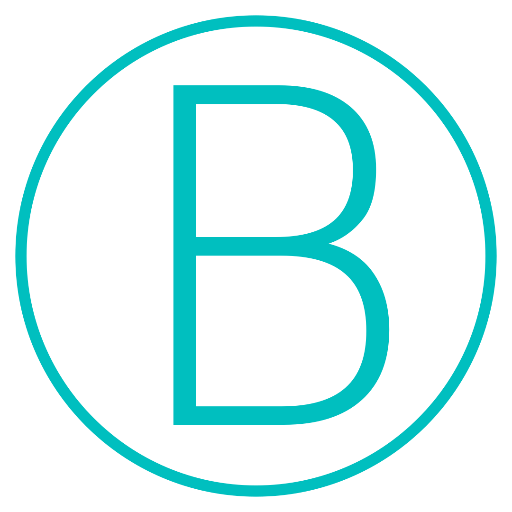
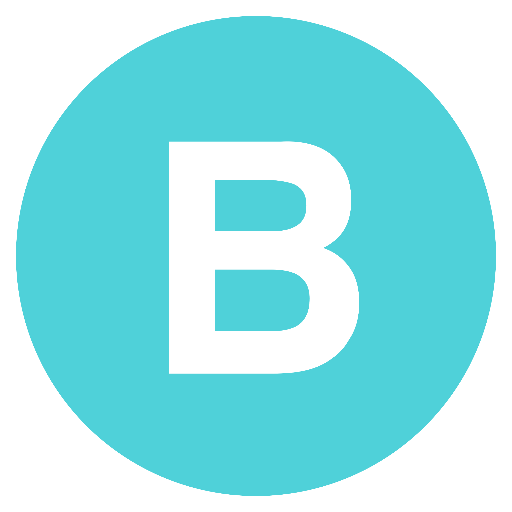
big chnage

diff --git a/src/components/logo/Logo.js b/src/components/logo/Logo.js
@@ -15,81 +15,9 @@ export const Logo = () => {
     const classes = useStyles();
 
     return (
-      <svg xmlns="http://www.w3.org/2000/svg" version="1.1" width="1080" height="1080" viewBox="0 0 1080 1080" xmlSpace="preserve">
-  <defs></defs>
-  <rect x="0" y="0" width="100%" height="100%" fill="transparent" />
-  <g transform="matrix(1 0 0 1 540 540)" id="685b5e02-9374-4bbb-9afb-c21c7d78927f"></g>
-  <g transform="matrix(1 0 0 1 540 540)" id="60aa28cd-1699-4a95-b428-5446e7fcde33">
-    <rect
-      style={{
-        stroke: 'none',
-        strokeWidth: 1,
-        strokeDasharray: 'none',
-        strokeLinecap: 'butt',
-        strokeDashoffset: 0,
-        strokeLinejoin: 'miter',
-        strokeMiterlimit: 4,
-        fill: 'rgb(255,255,255)',
-        fillRule: 'nonzero',
-        opacity: 1,
-        visibility: 'hidden',
-      }}
-      vectorEffect="non-scaling-stroke"
-      x="-540"
-      y="-540"
-      rx="0"
-      ry="0"
-      width="1080"
-      height="1080"
-    />
-  </g>
-  <g transform="matrix(0 0 0 0 0 0)">
-    <g style=""></g>
-  </g>
-  <g transform="matrix(11.84 0 0 11.84 540 540)">
-    <path
-      style={{
-        stroke: 'rgb(0,191,191)',
-        strokeWidth: 0,
-        strokeDasharray: 'none',
-        strokeLinecap: 'butt',
-        strokeDashoffset: 0,
-        strokeLinejoin: 'miter',
-        strokeMiterlimit: 4,
-        fill: 'rgb(0,191,191)',
-        fillRule: 'nonzero',
-        opacity: 1,
-      }}
-      vectorEffect="non-scaling-stroke"
-      transform="translate(-50, -50)"
-      d="M 50 92.875 C 26.358 92.875 7.125 73.642 7.125 50 C 7.125 26.358000000000004 26.358 7.125 50 7.125 C 73.642 7.125 92.875 26.358 92.875 50 C 92.875 73.642 73.642 92.875 50 92.875 z M 50 9.125 C 27.461 9.125 9.125 27.461 9.125 50 C 9.125 72.538 27.461 90.875 50 90.875 C 72.538 90.875 90.875 72.538 90.875 50 C 90.875 27.461 72.538 9.125 50 9.125 z"
-      strokeLinecap="round"
-    />
-  </g>
-  <g transform="matrix(8.39 0 0 8.39 571.89 587.19)" style="" id="047e58c2-a7c2-498c-a005-4fc0555c84c7">
-    <text
-      xmlSpace="preserve"
-      fontFamily="Raleway"
-      fontSize="117"
-      fontStyle="normal"
-      fontWeight="300"
-      style={{
-        stroke: 'none',
-        strokeWidth: 1,
-        strokeDasharray: 'none',
-        strokeLinecap: 'butt',
-        strokeDashoffset: 0,
-        strokeLinejoin: 'miter',
-        strokeMiterlimit: 4,
-        fill: 'rgb(0,191,191)',
-        fillRule: 'nonzero',
-        opacity: 1,
-        whiteSpace: 'pre',
-      }}
-    >
-      <tspan x="-39.02" y="36.75">B</tspan>
-    </text>
-  </g>
+      <svg xmlns="http://www.w3.org/2000/svg" viewBox="0 0 64 64" class="jss3">
+  <circle cx="32" cy="32" r="30" fill="#4fd1d9"></circle>
+  <path d="M42.6 20.6c.9 1.2 1.3 2.7 1.3 4.4c0 1.8-.4 3.2-1.3 4.3c-.5.6-1.2 1.2-2.2 1.7c1.5.5 2.6 1.4 3.4 2.6c.8 1.2 1.1 2.6 1.1 4.3c0 1.7-.4 3.3-1.3 4.6c-.5.9-1.2 1.7-2.1 2.3c-.9.7-2 1.2-3.3 1.5s-2.6.4-4.1.4h-13v-29h14c3.6-.2 6.1.9 7.5 2.9m-15.7 1.9v6.4H34c1.3 0 2.3-.2 3.1-.7s1.2-1.3 1.2-2.5c0-1.4-.5-2.2-1.6-2.7c-.9-.3-2-.5-3.4-.5h-6.4m0 11.2v7.7h7c1.3 0 2.2-.2 2.9-.5c1.3-.6 1.9-1.8 1.9-3.6c0-1.5-.6-2.5-1.8-3.1c-.7-.3-1.7-.5-2.9-.5h-7.1" fill="#ffffff"></path>
 </svg>
     );
 };
